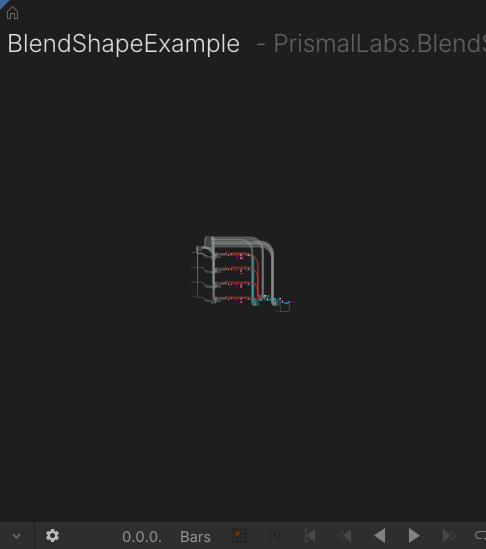
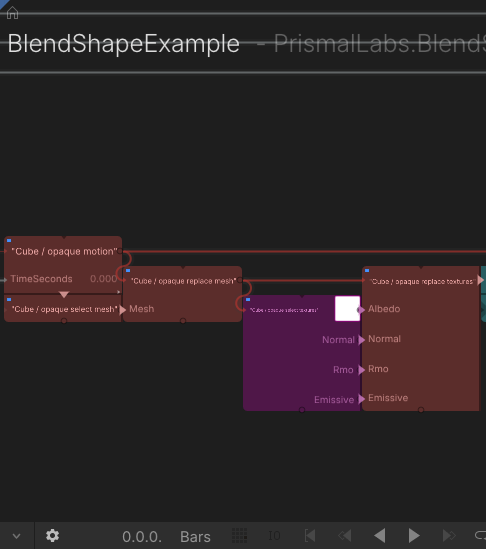
Improve TiXL graph screenshot readability

diff --git a/.agents/skills/blender-tixl-release-refresh/SKILL.md b/.agents/skills/blender-tixl-release-refresh/SKILL.md
@@ -38,12 +38,12 @@ Keep these filenames so documentation links remain stable:
 | --- | --- |
 | `docs/screenshots/blender-plugin.png` | Scene Properties → TiXL Bridge, including save sync, on-demand sync, and capability refresh. |
 | `docs/screenshots/blender-preferences.png` | Enabled add-on entry, version, TiXL paths, connection/port, capability repository, and refresh control. |
-| `docs/screenshots/tixl-graph.png` | Full `BlendShapeExample` home graph with four world branches and shared render chain. |
-| `docs/screenshots/tixl-graph-detail.png` | One world branch showing animation, mesh select/replace, texture select/replace, and scene output. |
+| `docs/screenshots/tixl-graph.png` | Readable zoom on one world branch showing animation, mesh select/replace, and texture select/replace. Do not fit the entire graph when that makes labels illegible. |
+| `docs/screenshots/tixl-graph-detail.png` | Wider context around the same branch, including its scene output and surrounding connections. |
 
 For Blender, set the relevant area and call Blender's native `screen.screenshot_area` through MCP. Redraw before capture. For Preferences, use `screen.userpref_show` and `preferences.addon_show` through MCP.
 
-For TiXL, pause playback, open `BlendShapeExample`, pump three frames, frame stable child IDs from `getGraphState`, pump again, and call `screenshotWindow` with `region="graph"`. Restore the original time and playback speed afterward.
+For TiXL, pause playback, open `BlendShapeExample`, pump three frames, and frame stable child IDs from `getGraphState`. For the main graph image, select only the nodes needed to explain one branch; a tiny full-graph thumbnail is not acceptable. Pump again, call `screenshotWindow` with `region="graph"`, and restore the original graph view, time, playback speed, selection, and output pin afterward.
 
 Visually inspect every image. Text and wires must be legible, the intended controls/nodes must be visible, no modal dialog may obscure the subject, and captions must describe what the image actually shows. Never accept file existence or dimensions as visual verification.
 

diff --git a/docs/BRIDGE_REFERENCE.md b/docs/BRIDGE_REFERENCE.md
@@ -19,11 +19,11 @@ Sync replaces generated import data but preserves the user-owned project home, T
 
 ## Home graph
 
-The generated home has one row per world and a shared world switch and render chain:
+The generated home has one row per world and a shared world switch and render chain. This zoomed view shows one world's animation, mesh, and texture path:
 
-![TiXL home graph with four world branches and a shared render chain](screenshots/tixl-graph.png)
+![Zoomed TiXL world branch showing Blender animation, mesh replacement, and texture editing](screenshots/tixl-graph.png)
 
-Each world exposes animation, mesh, texture, and scene connections:
+A wider branch view includes the surrounding scene connections:
 
 ![TiXL graph detail showing animation and editable mesh and texture connections](screenshots/tixl-graph-detail.png)
 

diff --git a/README.md b/README.md
@@ -5,7 +5,7 @@
 
 Save a Blender scene and turn it into an editable TiXL project. Blender remains the source for geometry and animation; TiXL gets a graph where timing, meshes, textures, lighting, effects, and rendering can be changed without rebuilding the source scene by hand.
 
-![TiXL home graph with four Blender world branches and a shared render chain](docs/screenshots/tixl-graph.png)
+![Zoomed TiXL world branch showing Blender animation, mesh replacement, and texture editing](docs/screenshots/tixl-graph.png)
 
 ## Main features
 
